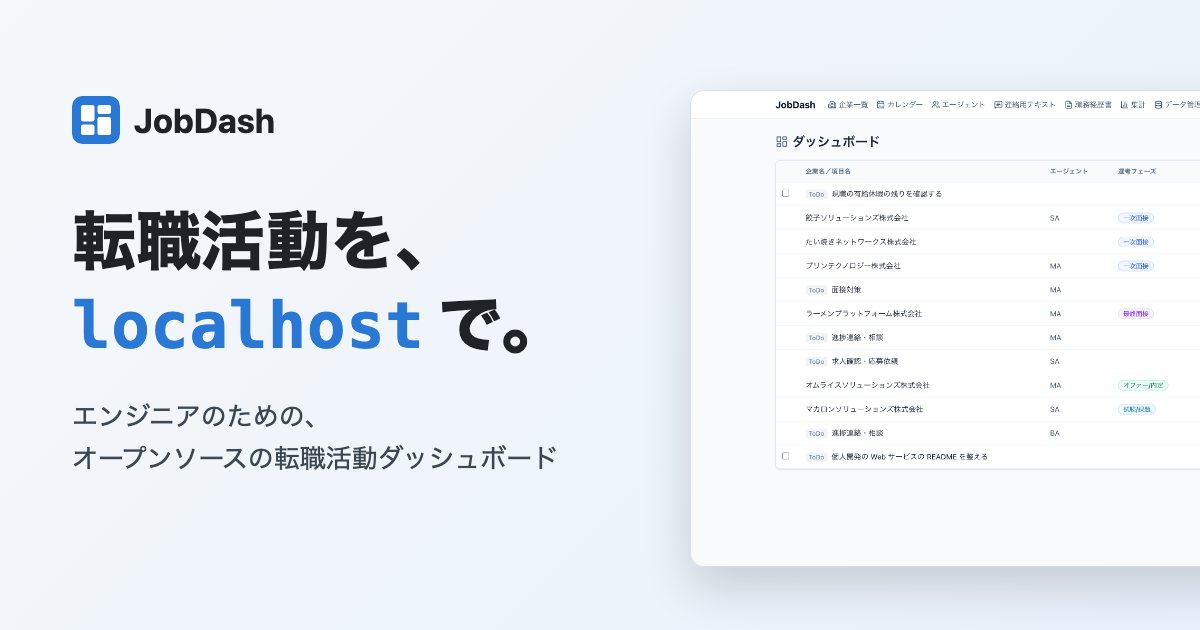
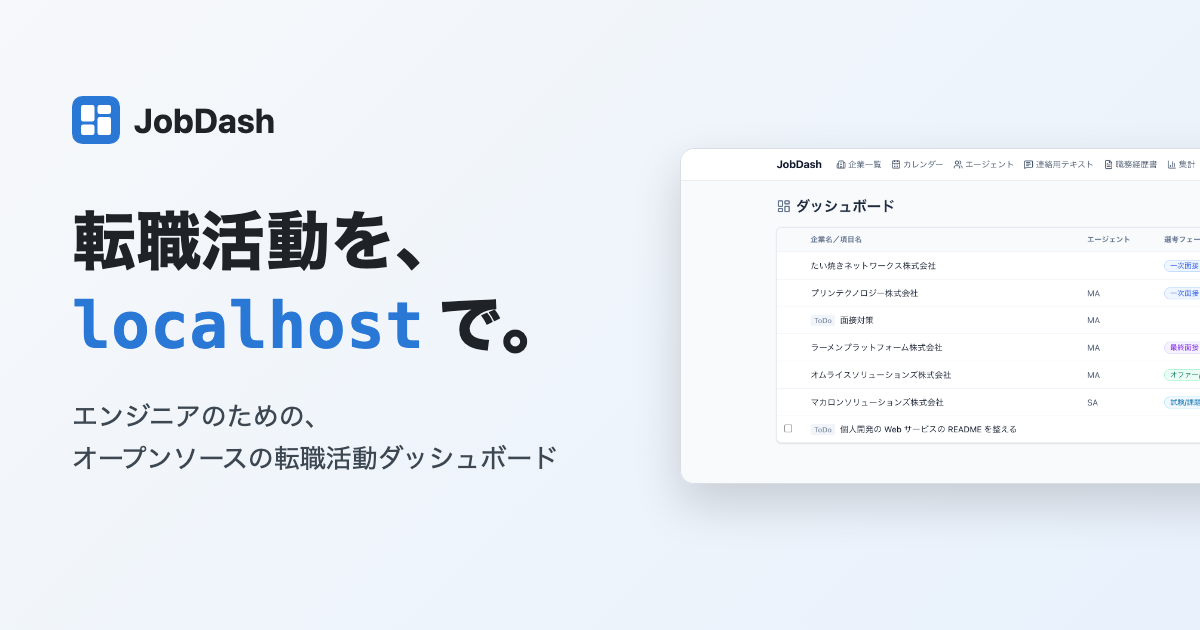
Regenerate the OGP image with the shorter dashboard shot
Enlarge the shot and center it vertically, as the cropped dashboard is
shorter than before.

diff --git a/scripts/site/ogp.html b/scripts/site/ogp.html
@@ -52,9 +52,9 @@
       }
       .shot {
         position: absolute;
-        left: 690px;
-        top: 90px;
-        width: 760px;
+        left: 680px;
+        top: 148px;
+        width: 860px;
         border: 1px solid #d8dee4;
         border-radius: 14px;
         box-shadow: 0 20px 48px rgb(0 0 0 / 0.16);
